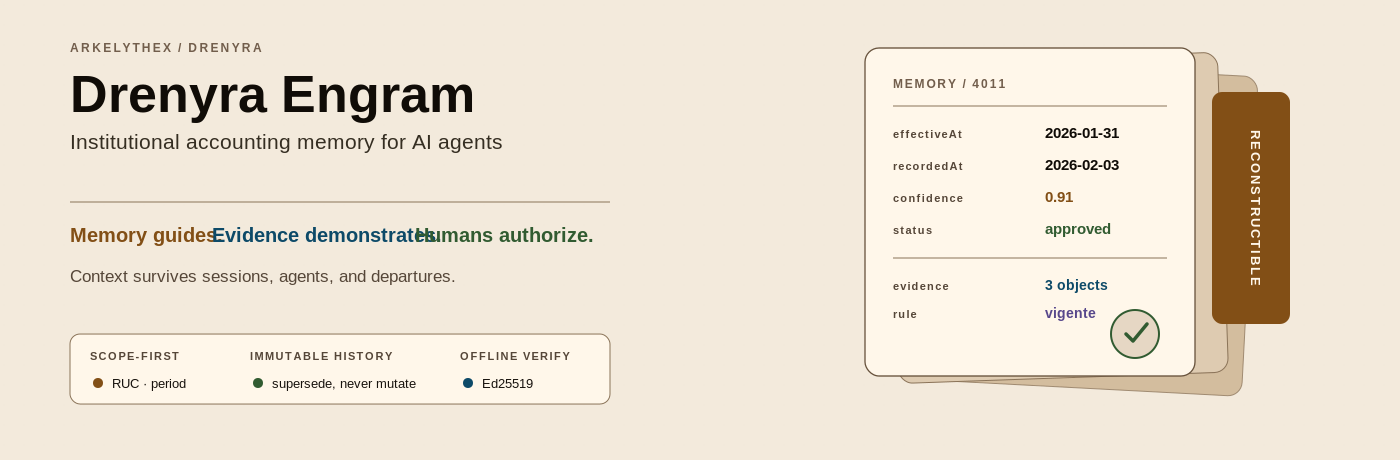
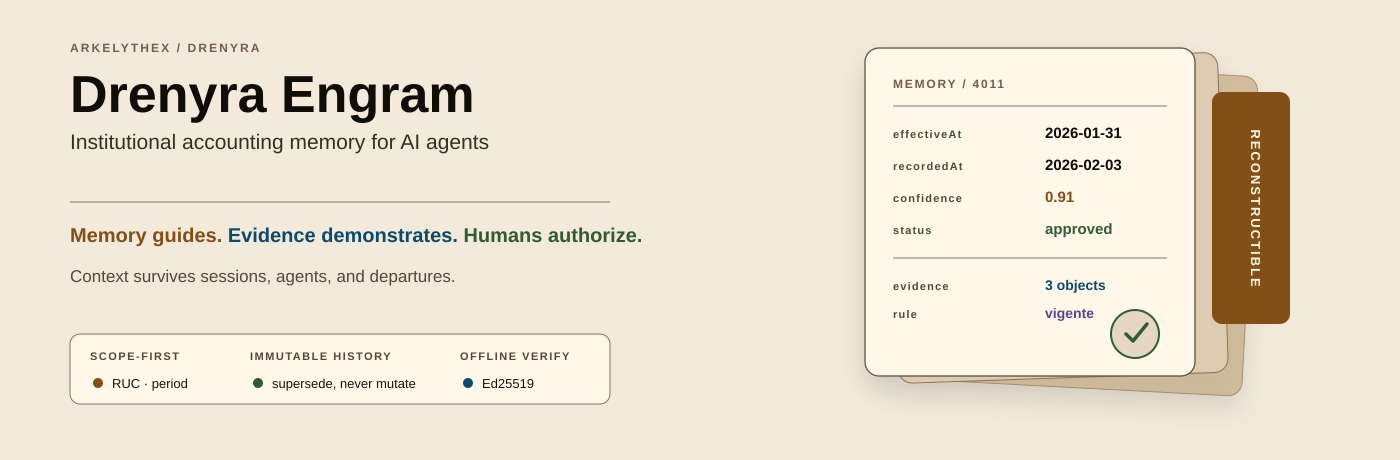
feat(brand): derive Dreamcoder Dark variants of the branding visuals
Light SVGs stay the single source of truth and use only Dreamcoder Light
tokens. scripts/brand-dark-variants.mjs maps each token to the Dreamcoder
Dark token with the same role, keeps shadows black, and fails on any
colour outside the table; --check detects stale variants. Also fix the hero
tagline overlap by flowing it through tspans.

diff --git a/assets/branding/BRAND.md b/assets/branding/BRAND.md
@@ -29,6 +29,33 @@ Composition: editorial, audit-grade, calm. One strong archive object, generous n
 Signature detail: the verifiable seal engraving and the printed reconstructible timeline resolving under it.
 ```
 
+## Light and dark variants
+
+The README serves each visual through `<picture>` with
+`prefers-color-scheme`, so readers see the asset that matches their GitHub
+theme.
+
+- **Light is the source of truth.** Edit only the light `*.svg` files. They may
+  use only Dreamcoder Light token values.
+- **Dark is derived.** `scripts/brand-dark-variants.mjs` writes each
+  `*-dark.svg` by mapping every Dreamcoder Light token to the Dreamcoder Dark
+  token with the same role (accent, diagnostic, sage, lavender, surfaces,
+  text ladder). A colour outside the token table fails the run. Drop shadows
+  stay black so they never become a glow.
+- **Text flows.** Put adjacent phrases in one `<text>` with `<tspan>` runs
+  instead of fixed `x` positions; fixed offsets overlap when the renderer's
+  font differs from the author's.
+
+```bash
+node scripts/brand-dark-variants.mjs          # regenerate *-dark.svg
+node scripts/brand-dark-variants.mjs --check  # fail if any is missing or stale
+cd assets/branding
+for f in *.svg; do rsvg-convert -w 1400 -h 460 "$f" -o "${f%.svg}.png"; done
+```
+
+The palettes come from the Dreamcoder theme tokens (`modes.light` and
+`modes.dark` in the dreamcoder-dots `DreamcoderThemes/dreamcoder/tokens.json`).
+
 ## Validate
 
 ```bash
